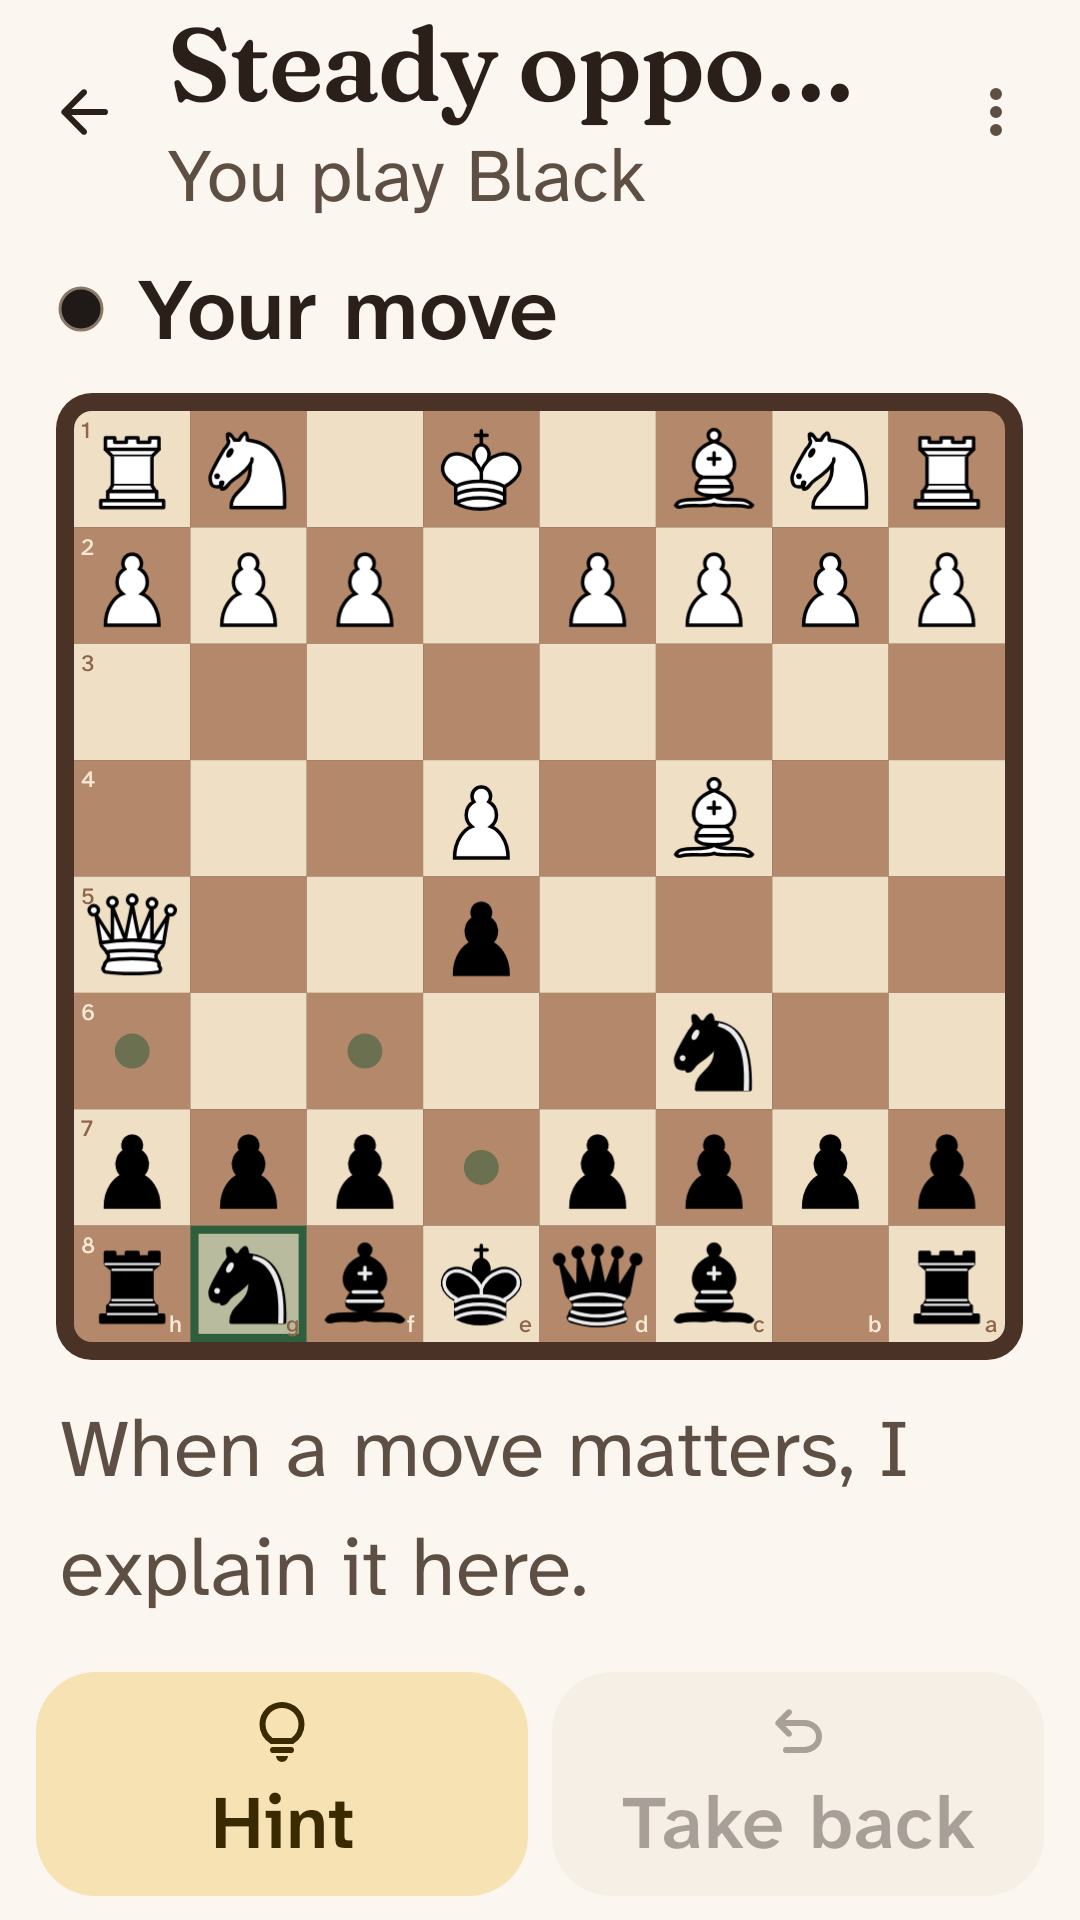
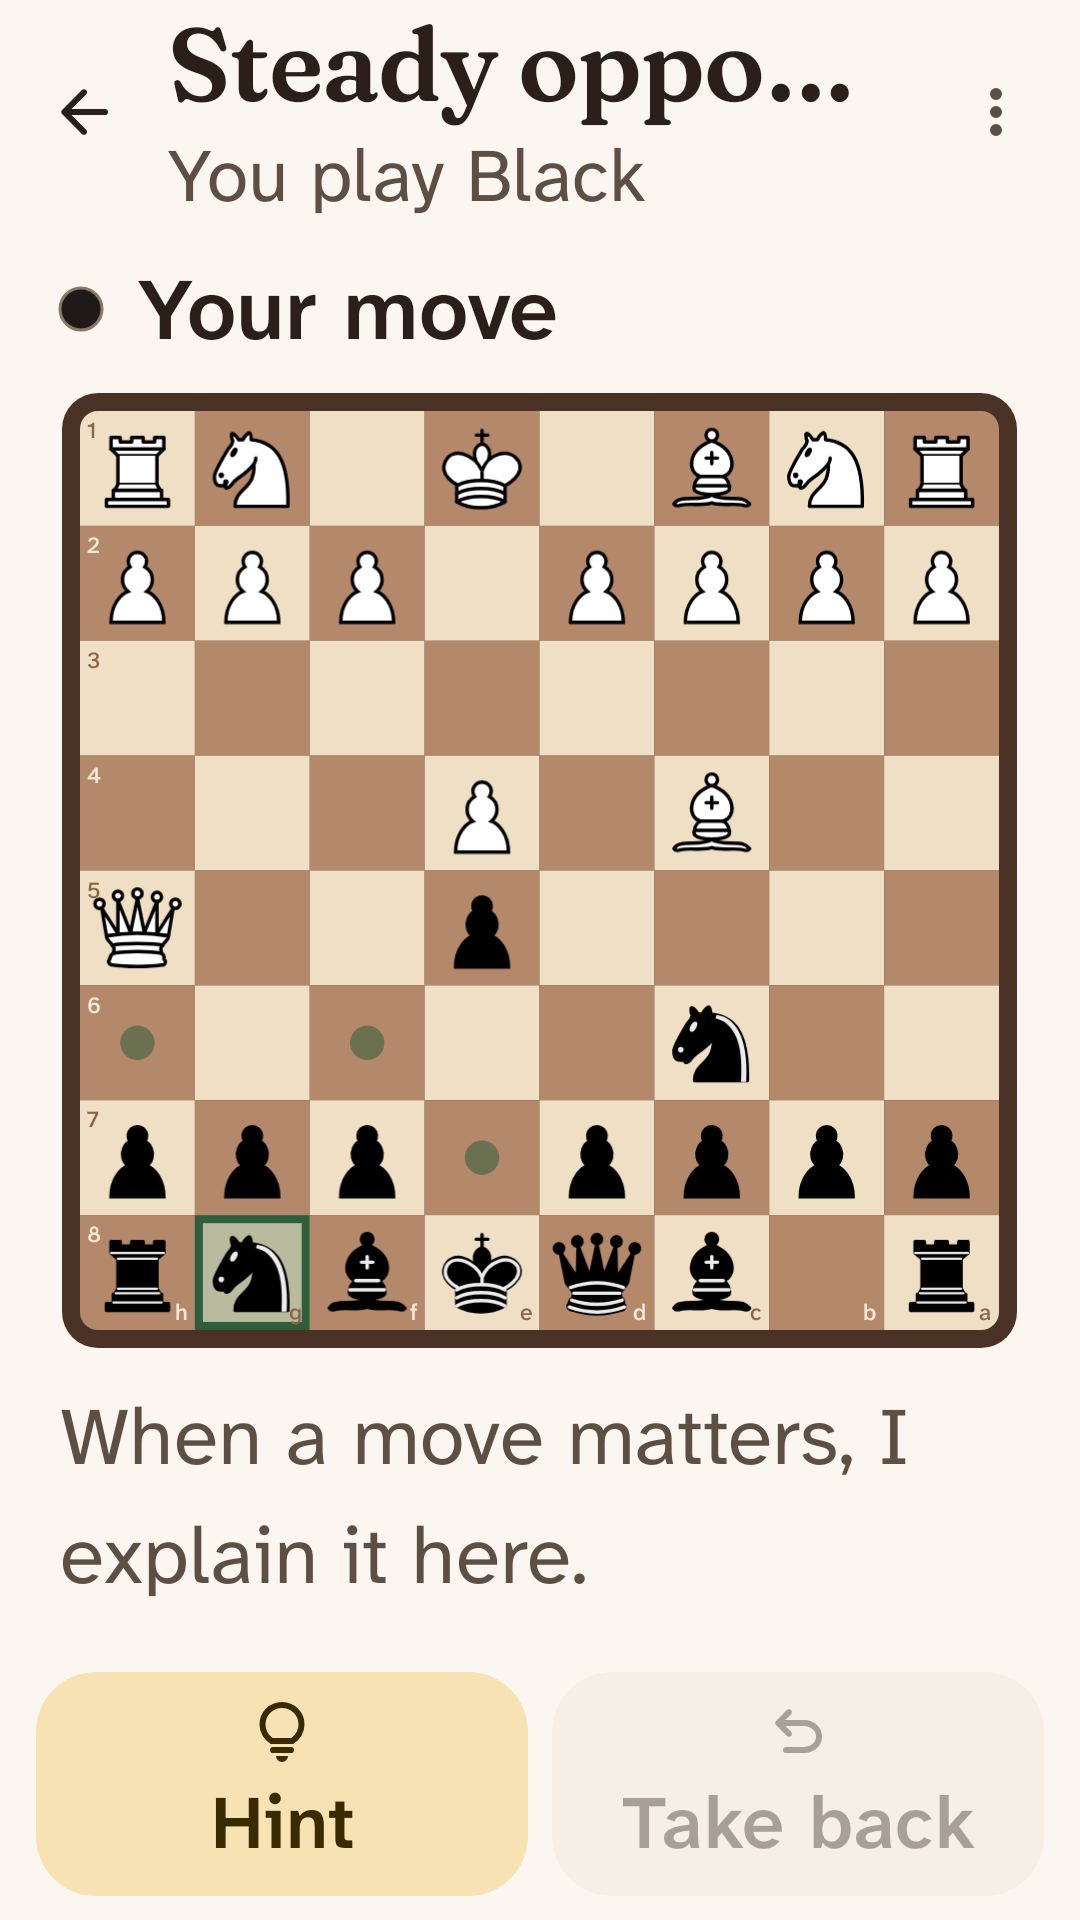
Keep evidence mode read-only and the board clear
"Show me why" on an event with an explanation but no line to replay
left the live board tappable under the banner saying the game is
unchanged, so a tap could play a real move. Evidence mode now always
shows a non-interactive board with the evidence frame. No automated
test: it needs an event with text but no continuation, which the
scripted games do not produce; the fix holds by construction because
the evidence branch never receives a tap handler.

In very short portrait windows the board kept a 220 dp floor and slid
under the toolbar, hiding and blocking its bottom rank. The board now
shrinks below the floor only as far as the window forces, so nothing
sits under the actions (new short-window test).

The evidence banner is announced as a pane when it appears. Tests now
check that the board clears the toolbar and that resume reloads the
same game, branch and revision. Remove unused tone colours and correct
the legend comment and the colour note in DESIGN.md.

diff --git a/app/src/test/kotlin/ch/lkmc/chessandcocoa/ui/ScreensTest.kt b/app/src/test/kotlin/ch/lkmc/chessandcocoa/ui/ScreensTest.kt
@@ -5,6 +5,9 @@ import androidx.compose.runtime.Composable
 import androidx.compose.runtime.CompositionLocalProvider
 import androidx.compose.runtime.mutableStateOf
 import androidx.compose.ui.platform.LocalDensity
+import androidx.compose.ui.test.assert
+import androidx.compose.ui.test.getBoundsInRoot
+import androidx.compose.ui.test.hasClickAction
 import androidx.compose.ui.test.junit4.createComposeRule
 import androidx.compose.ui.test.onAllNodesWithText
 import androidx.compose.ui.test.onFirst
@@ -195,8 +198,11 @@ class ScreensTest {
         compose.waitUntil(TIMEOUT) { resumed.state.value.canContinue }
         resumed.resume()
         compose.waitUntil(TIMEOUT) { resumed.state.value.phase == Phase.HUMAN_TURN }
-        assertEquals(restored.moves, resumed.state.value.record!!.moves)
-        assertEquals(restored.hints, resumed.state.value.record!!.hints)
+        val reloaded = resumed.state.value.record!!
+        assertEquals(restored.gameId, reloaded.gameId)
+        assertEquals(restored.branchId, reloaded.branchId)
+        assertEquals(restored.revision, reloaded.revision)
+        assertEquals(restored.hints, reloaded.hints)
     }
 
     @Test
@@ -239,14 +245,14 @@ class ScreensTest {
     @Config(qualifiers = "w360dp-h640dp-xxhdpi")
     fun aCompactPhoneKeepsTheBoardWhole() {
         scholarWithKnightSelected()
-        compose.onNodeWithText("Hint").assertExists()
+        assertBoardClearOfToolbar()
         compose.onRoot().captureRoboImage(shot("game-compact"))
     }
 
     @Test
     fun largeTextStillLeavesRoomForTheBoard() {
         scholarWithKnightSelected(fontScale = LARGE_FONT)
-        compose.onNodeWithText("Take back").assertExists()
+        assertBoardClearOfToolbar()
         compose.onRoot().captureRoboImage(shot("game-large-text"))
     }
 
@@ -254,8 +260,15 @@ class ScreensTest {
     @Config(qualifiers = "w360dp-h640dp-xxhdpi")
     fun theLargestTextOnACompactPhoneStillPlays() {
         scholarWithKnightSelected(fontScale = LARGEST_FONT)
-        compose.onNodeWithText("Hint").assertExists()
+        assertBoardClearOfToolbar()
         compose.onRoot().captureRoboImage(shot("game-compact-largest-text"))
+    }
+
+    @Test
+    @Config(qualifiers = "w300dp-h340dp-xxhdpi")
+    fun aVeryShortWindowNeverHidesTheBoardUnderTheToolbar() {
+        scholarWithKnightSelected()
+        assertBoardClearOfToolbar()
     }
 
     @Test
@@ -283,6 +296,8 @@ class ScreensTest {
         compose.waitForIdle()
         captureScreenRoboImage(shot("promotion"))
 
+        // Switch Access and Voice Access activate through the semantic click action, not a touch.
+        compose.onNodeWithContentDescription("white queen").assert(hasClickAction())
         compose.onNodeWithContentDescription("white queen").performClick()
         compose.waitUntil(TIMEOUT) { (session.state.value.record?.ply ?: 0) >= 1 }
         val promoted = session.state.value.record!!.moves.first()
@@ -301,6 +316,15 @@ class ScreensTest {
         compose.waitUntil(TIMEOUT) { session.state.value.phase == Phase.HUMAN_TURN }
         compose.onNodeWithContentDescription("g8, black knight").performClick()
         compose.waitForIdle()
+    }
+
+    /** The bottom rank (Black's back rank here) sits fully above the toolbar and inside the screen. */
+    private fun assertBoardClearOfToolbar() {
+        val root = compose.onRoot().getBoundsInRoot()
+        val corner = compose.onNodeWithContentDescription("a8, black rook").getBoundsInRoot()
+        val toolbar = compose.onNodeWithText("Hint").getBoundsInRoot()
+        assertTrue(corner.bottom <= toolbar.top, "the board's bottom edge ${corner.bottom} runs under the toolbar at ${toolbar.top}")
+        assertTrue(corner.right <= root.right, "the board's right edge ${corner.right} leaves the screen at ${root.right}")
     }
 
     private fun show(appearance: Appearance = Appearance.DAYLIGHT, fontScale: Float = 1f, content: @Composable () -> Unit) {

diff --git a/app/src/main/kotlin/ch/lkmc/chessandcocoa/ui/game/GameScreen.kt b/app/src/main/kotlin/ch/lkmc/chessandcocoa/ui/game/GameScreen.kt
@@ -46,6 +46,7 @@ import androidx.compose.ui.semantics.semantics
 import androidx.compose.ui.semantics.traversalIndex
 import androidx.compose.ui.text.style.TextAlign
 import androidx.compose.ui.unit.Constraints
+import androidx.compose.ui.unit.Dp
 import androidx.compose.ui.unit.dp
 import androidx.lifecycle.compose.collectAsStateWithLifecycle
 import ch.lkmc.chessandcocoa.R
@@ -162,9 +163,10 @@ fun GameScreen(session: GameSession, navigation: GameNavigation) {
     val boardView: @Composable (Modifier) -> Unit = { modifier ->
         val coordinates = if (state.preferences.showCoordinates) Coordinates.SHOWN else Coordinates.HIDDEN
         val style = if (state.preferences.highContrastBoard) BoardStyle.HIGH_CONTRAST else BoardStyle.COCOA
-        if (shown != null && frame != null) {
+        if (shown != null) {
+            // Without a line to replay, the position explained is the live one; it is still not playable here.
             ChessBoard(
-                board = frame.board,
+                board = frame?.board ?: liveBoard,
                 modifier = modifier,
                 marks = if (step == 0) shown.event.marks else emptyList(),
                 arrows = shown.frames.getOrNull(step + 1)?.board?.lastMove?.let(::listOf).orEmpty(),
@@ -307,12 +309,14 @@ private fun PortraitGame(
 
 /**
  * Stacks status, board, move strip, panel and actions. The board takes the
- * width it is offered, shrinking only when tall text would otherwise leave
- * the panel no room; the panel gets whatever height is left.
+ * width it is offered and shrinks when tall text or a short window would
+ * leave the panel too little room: first down to [MIN_BOARD], below that
+ * only as far as the window forces. The panel gets whatever height is left,
+ * so nothing ever sits under the actions.
  */
 @Composable
 private fun BoardColumn(
-    maxBoard: androidx.compose.ui.unit.Dp,
+    maxBoard: Dp,
     status: @Composable () -> Unit,
     board: @Composable () -> Unit,
     history: (@Composable () -> Unit)?,
@@ -330,10 +334,11 @@ private fun BoardColumn(
         val actionsP = actionsM.map { it.measure(loose) }
         val chrome = (statusP + historyP + actionsP).sumOf { it.height }
 
-        val room = constraints.maxHeight - chrome - MIN_PANEL.roundToPx()
-        val side = minOf(maxBoard.roundToPx(), room).coerceAtLeast(MIN_BOARD.roundToPx())
+        val available = (constraints.maxHeight - chrome - BOARD_GAP.roundToPx()).coerceAtLeast(0)
+        val preferred = available - MIN_PANEL.roundToPx()
+        val side = minOf(maxBoard.roundToPx(), maxOf(preferred, minOf(MIN_BOARD.roundToPx(), available)))
         val boardP = boardM.map { it.measure(Constraints.fixed(side, side)) }
-        val panelHeight = (constraints.maxHeight - chrome - side - BOARD_GAP.roundToPx()).coerceAtLeast(0)
+        val panelHeight = available - side
         val panelP = panelM.map { it.measure(Constraints.fixed(width, panelHeight)) }
 
         layout(width, constraints.maxHeight) {

diff --git a/app/src/main/kotlin/ch/lkmc/chessandcocoa/ui/game/CoachPanel.kt b/app/src/main/kotlin/ch/lkmc/chessandcocoa/ui/game/CoachPanel.kt
@@ -37,6 +37,7 @@ import androidx.compose.ui.semantics.LiveRegionMode
 import androidx.compose.ui.semantics.Role
 import androidx.compose.ui.semantics.contentDescription
 import androidx.compose.ui.semantics.liveRegion
+import androidx.compose.ui.semantics.paneTitle
 import androidx.compose.ui.semantics.semantics
 import androidx.compose.ui.unit.dp
 import ch.lkmc.chessandcocoa.R
@@ -114,16 +115,18 @@ private fun TurnDot(side: Side) {
 /** Replaces the status line while "Show me why" is on the board, so the two can never be confused. */
 @Composable
 fun EvidenceBanner(modifier: Modifier = Modifier) {
+    val title = stringResource(R.string.evidence_title)
     Surface(
         color = MaterialTheme.colorScheme.secondaryContainer,
         contentColor = MaterialTheme.colorScheme.onSecondaryContainer,
         shape = MaterialTheme.shapes.medium,
-        modifier = modifier.fillMaxWidth().semantics { liveRegion = LiveRegionMode.Polite },
+        // A pane title makes screen readers announce the replay as it appears.
+        modifier = modifier.fillMaxWidth().semantics(mergeDescendants = true) { paneTitle = title },
     ) {
         Row(Modifier.padding(horizontal = Space.m, vertical = Space.s), verticalAlignment = Alignment.CenterVertically) {
             Icon(painterResource(R.drawable.ic_visibility), contentDescription = null)
             Column(Modifier.padding(start = Space.m)) {
-                Text(stringResource(R.string.evidence_title), style = MaterialTheme.typography.titleSmall)
+                Text(title, style = MaterialTheme.typography.titleSmall)
                 Text(stringResource(R.string.evidence_live_untouched), style = MaterialTheme.typography.bodySmall)
             }
         }
@@ -217,7 +220,7 @@ private fun HintNote(hint: Hint) {
     }
 }
 
-/** The shapes on the board and what they mean, drawn exactly as the board draws them. */
+/** The marks on the board and what they mean, in the board's own shapes and colours. */
 @OptIn(ExperimentalLayoutApi::class)
 @Composable
 fun MarkLegend(roles: Set<SquareRole>, modifier: Modifier = Modifier) {

diff --git a/app/src/main/kotlin/ch/lkmc/chessandcocoa/ui/theme/Color.kt b/app/src/main/kotlin/ch/lkmc/chessandcocoa/ui/theme/Color.kt
@@ -125,15 +125,12 @@ data class MarkColors(
     val halo: Color,
 )
 
-/** Colours Material 3 has no role for: the board, its marks and the coach's tone accents. */
+/** Colours Material 3 has no role for: the board, its marks and the turn indicator. */
 @Immutable
 data class CocoaColors(
     val board: BoardPalette,
     val highContrastBoard: BoardPalette,
     val marks: MarkColors,
-    val serious: Color,
-    val encouraging: Color,
-    val calm: Color,
     /** Frame of the board while it shows "Show me why" instead of the live game. */
     val evidenceFrame: Color,
     /** The turn indicator's disc for each side. */
@@ -184,9 +181,6 @@ internal val DaylightCocoaColors = CocoaColors(
     board = CocoaBoard,
     highContrastBoard = HighContrastBoard,
     marks = Marks,
-    serious = Daylight.terracotta,
-    encouraging = Daylight.sage,
-    calm = Daylight.cocoa,
     evidenceFrame = Daylight.sage,
 )
 
@@ -194,8 +188,5 @@ internal val EveningCocoaColors = CocoaColors(
     board = EveningBoard,
     highContrastBoard = HighContrastBoard,
     marks = Marks,
-    serious = Evening.terracotta,
-    encouraging = Evening.sage,
-    calm = Evening.latte,
     evidenceFrame = Color(0xFF6E9470),
 )

diff --git a/docs/DESIGN.md b/docs/DESIGN.md
@@ -81,7 +81,7 @@ Claims ([`Claims.kt`](../coach/src/main/kotlin/ch/lkmc/chessandcocoa/coach/evide
 
 ### Interface
 
-The visual direction (concept Section 4.5) is "evening study": cream paper and cocoa ink by day, deep cocoa surfaces in the evening, following the system setting. All colour lives in [`ui/theme`](../app/src/main/kotlin/ch/lkmc/chessandcocoa/ui/theme/Color.kt): every Material 3 role is set in both themes, and board and mark colours sit in `CocoaColors`. Three accents carry fixed meanings: sage for guidance (selection, legal moves, "Show me why"), honey for the last move and hints, terracotta for check and serious news; mulberry marks teaching targets and threats. Fraunces sets headings and Atkinson Hyperlegible Next, drawn for low-vision readers, sets body text and notation.
+The visual direction (concept Section 4.5) is "evening study": cream paper and cocoa ink by day, deep cocoa surfaces in the evening, following the system setting. All Compose colour lives in [`ui/theme`](../app/src/main/kotlin/ch/lkmc/chessandcocoa/ui/theme/Color.kt): every Material 3 role is set in both themes, and board and mark colours sit in `CocoaColors`. The window background in `res/values*/colors.xml` repeats the paper tone, because the platform theme cannot read Compose colours. Three accents carry fixed meanings: sage for guidance (selection, legal moves, "Show me why"), honey for the last move and hints, terracotta for check and serious news; mulberry marks teaching targets and threats. Fraunces sets headings and Atkinson Hyperlegible Next, drawn for low-vision readers, sets body text and notation.
 
 The board's size depends only on the window, so coaching never moves it. "Show me why" replays a claim's continuation on the main board itself, under a sage frame and a banner saying the game is unchanged; the live game returns with Back to game or system Back. The last move slides into place only when the shown position advanced by exactly one move. Screen readers reach the status, coaching and actions before the board's 64 labelled squares.
 
